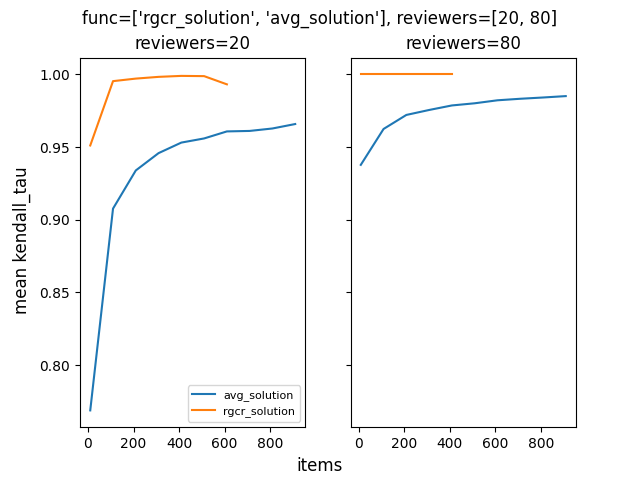
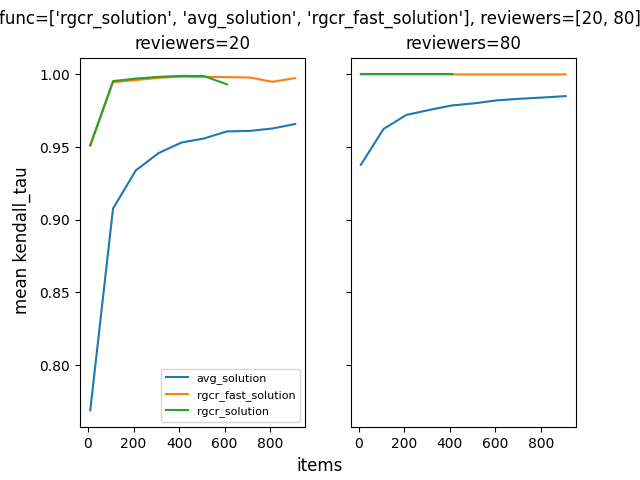
updated graphs of kendall and recall to include fast

diff --git a/experiments.py b/experiments.py
@@ -109,7 +109,7 @@ multi_plot_results(
 # 2. Kendall-Tau Distance plot
 multi_plot_results(
     results_csv_file=csv_path, 
-    filter={"func": ["rgcr_solution", "avg_solution"], "reviewers": [20,80]}, 
+    filter={"func": ["rgcr_solution", "avg_solution", "rgcr_fast_solution"], "reviewers": [20,80]}, 
     subplot_rows=1, 
     subplot_cols=2,
     x_field="items", 
@@ -125,7 +125,7 @@ multi_plot_results(
 # 3. Recall plot
 multi_plot_results(
     results_csv_file=csv_path, 
-    filter={"func": ["rgcr_solution", "avg_solution"], "reviewers": [20,80]}, 
+    filter={"func": ["rgcr_solution", "avg_solution", "rgcr_fast_solution"], "reviewers": [20,80]}, 
     subplot_rows=1, 
     subplot_cols=2,
     x_field="items", 